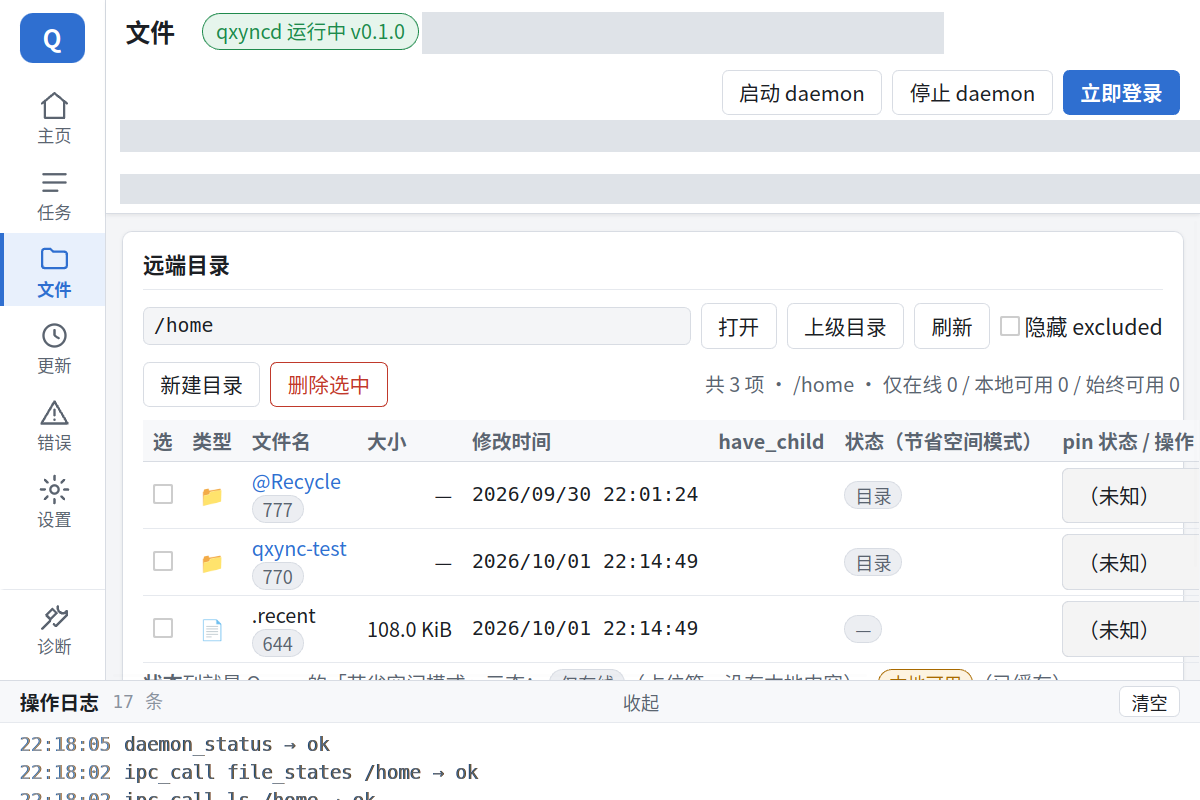
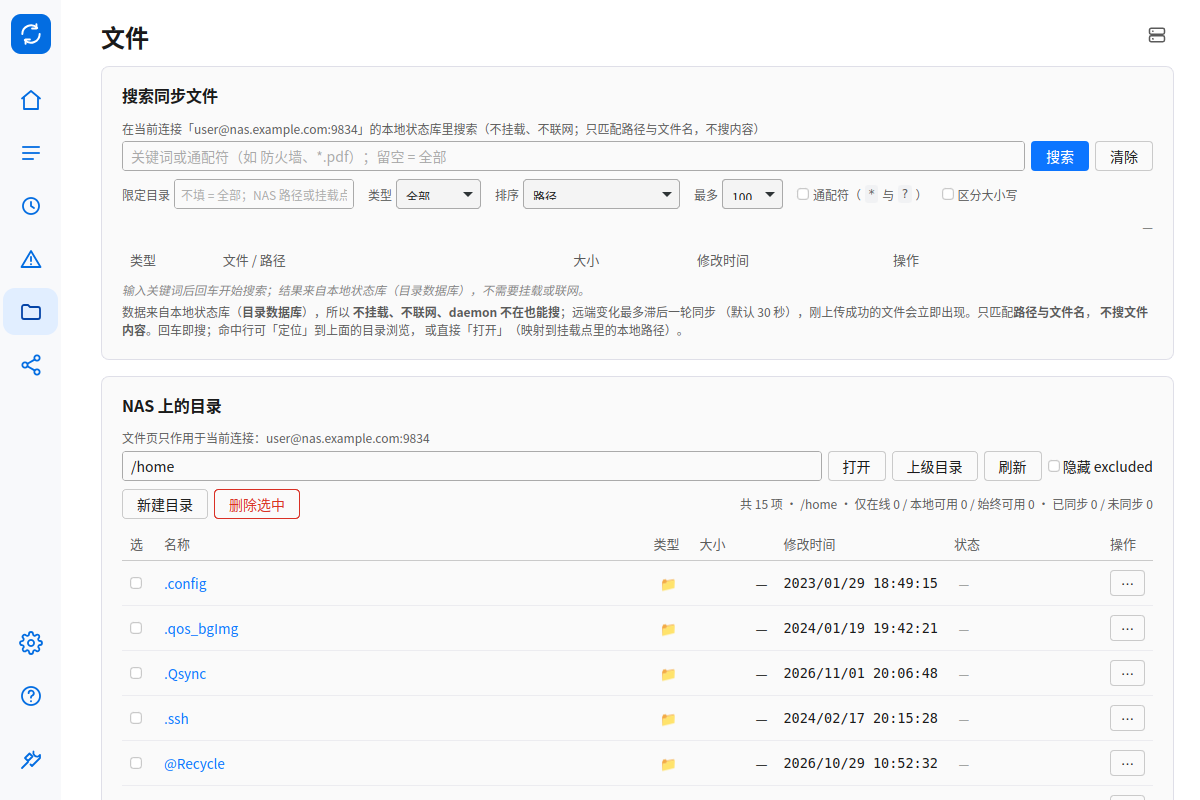
release: v0.9.1 —— 截图与历史脱敏修复（安全版）
- 全部入库截图 OCR 脱敏；发布说明嵌图加 ?v=2 破 camo 缓存
- 文档/测试夹具真实主机名→nas.example.com、用户名→user、家目录→/home/user
- README 四张截图用占位配置重拍（不再靠涂抹），本机路径模糊
- 版本 0.9.0→0.9.1 六处对齐 + Cargo.lock；新增发布说明 v0.9.1；中英 CHANGELOG
- 无功能变更、无数据格式变更

验证：全历史 grep 0 命中、OCR 闸门 0 命中、cargo fmt/check 通过、check-version 一致

diff --git a/xtask/release/redact-shots.py b/xtask/release/redact-shots.py
@@ -22,7 +22,7 @@ import sys
 from pathlib import Path
 
 try:
-    from PIL import Image, ImageDraw
+    from PIL import Image, ImageDraw, ImageFilter
 except ImportError:  # pragma: no cover
     sys.exit("缺少 Pillow：sudo pacman -S python-pillow / apt install python3-pil")
 
@@ -49,7 +49,8 @@ def ocr_hits(path: Path, pattern: re.Pattern[str]) -> list[tuple[int, int, int, 
     return hits
 
 
-def mask_lines(img: Image.Image, hits: list[tuple[int, int, int, int, str]]) -> int:
+def mask_lines(img: Image.Image, hits: list[tuple[int, int, int, int, str]],
+               blur: bool = False, pad: int = 28) -> int:
     """按 y 中线聚行，整行段涂掉；返回涂改的行数。"""
     draw = ImageDraw.Draw(img)
     hits = sorted(hits, key=lambda w: (w[1] + w[3] / 2, w[0]))
@@ -68,8 +69,12 @@ def mask_lines(img: Image.Image, hits: list[tuple[int, int, int, int, str]]) -> 
         xe = [w[0] + w[2] for w in ln["items"]]
         ys = [w[1] for w in ln["items"]]
         ye = [w[1] + w[3] for w in ln["items"]]
-        x1, x2 = max(0, min(xs) - 28), min(img.width, max(xe) + 28)
+        x1, x2 = max(0, min(xs) - pad), min(img.width, max(xe) + pad)
         y1, y2 = max(0, min(ys) - 4), min(img.height, max(ye) + 4)
+        if blur:
+            box = (x1, y1, max(x1 + 1, x2), max(y1 + 1, y2))
+            img.paste(img.crop(box).filter(ImageFilter.GaussianBlur(6)), box)
+            continue
         fill = (255, 255, 255)
         for sx in (x1 - 10, x2 + 10, (x1 + x2) // 2):
             if 0 <= sx < img.width:
@@ -87,6 +92,9 @@ def main() -> int:
     ap.add_argument("--pattern", action="append", required=True,
                     help="敏感子串（可多次）；请勿把真实值提交进仓库")
     ap.add_argument("--dry-run", action="store_true", help="只报告命中，不改图")
+    ap.add_argument("--blur", action="store_true",
+                    help="命中区域用高斯模糊代替纯色块（截图里更自然，不会留深色印子）")
+    ap.add_argument("--pad", type=int, default=28, help="命中框左右外扩像素（默认 28）")
     args = ap.parse_args()
     pat = re.compile("|".join(re.escape(p) for p in args.pattern if p), re.IGNORECASE)
     dirty = 0
@@ -102,7 +110,7 @@ def main() -> int:
             print(f"❌ {path}: {len(hits)} 处命中 —— {', '.join(h[4] for h in hits[:6])}")
             continue
         img = Image.open(path).convert("RGB")
-        n = mask_lines(img, hits)
+        n = mask_lines(img, hits, blur=args.blur, pad=args.pad)
         img.save(path)
         print(f"✅ 已涂改 {path}（{n} 行）")
     if args.dry_run and dirty:

diff --git a/docs/发布说明-v0.9.1.md b/docs/发布说明-v0.9.1.md
@@ -1,0 +1,77 @@
+# v0.9.1 —— 截图与历史脱敏修复（安全版）
+
+> 发布日期：2026-11-02
+> 上一版：[v0.9.0](发布说明-v0.9.0.md)（桌面界面全面贴合 Qsync Client 6）
+
+## 一句话
+
+```text
+这是一次安全修复版本，没有新功能：
+  → 发布页面/仓库截图里的真实 NAS 地址（用户名@DDNS域名:端口）与本机路径已全部脱敏
+  → README 四张截图按新界面重拍，地址换成占位值
+  → git 历史（自 v0.7.0 起的 13 个提交、19 个 tag）里的同一批字符串一并清洗
+```
+
+## 出了什么事
+
+v0.9.0 的发布说明直接嵌入了验收截图，顶栏连接行里的 `用户名@DDNS域名:端口` 和
+设置页里的家目录路径**原样可见**——任何人打开 Release 页、或浏览仓库里的
+`docs/` 都能看到。这是我的失误：早期发布清单里写过「截图已涂抹」，但之后每次发版
+都没有强制执行这一条，于是约定变成了摆设。
+
+**泄露的内容**：主机名（DDNS 域名）、用户名、家目录路径。
+**没有泄露**：口令、凭据文件、TOTP 密钥 —— 已核对 `credentials*.json` 始终在
+`.gitignore` 内，全部历史里不存在任何凭据文件。
+
+## 这次改了什么
+
+| 面 | 处理 |
+|---|---|
+| 入库截图（40 张） | OCR 定位敏感串后脱敏；发布说明里的 4 张嵌图加 `?v=2` 破除 camo 缓存 |
+| 文档 / 测试夹具 | 真实主机名 → `nas.example.com`，用户名 → `user`，家目录 → `/home/user` |
+| README 四张截图 | 用**占位配置**重拍（`user@nas.example.com`），不再靠涂抹；本机路径做模糊 |
+| git 历史 | 13 个提交、19 个 tag 全量重写；文本与**截图像素**都处理（只替换文本等于只挡一半，`git log` 翻到旧提交照样看得见） |
+| 发版闸门 | 新增 `xtask/release/redact-shots.py`（`--dry-run` 命中即退出码 1）与 `scrub-history.sh`（默认只演练），发布清单补 §3.0 |
+
+## 你需要知道的
+
+1. **历史被重写了**：所有提交 hash 都变了，`v0.7.0`–`v0.9.0` 共 19 个 tag 已强制更新。
+   如果你本地有克隆，请重新 `git fetch --all --force`（或直接重新 clone），
+   不要把旧 clone 上的提交推回来。
+2. **旧对象仍可能残留**：force-push 不会删除 GitHub 服务器上的旧对象，
+   知道旧 SHA 的人仍可能直达。彻底清除需要联系 GitHub Support。
+3. **如果真的担心**：那个 DDNS 域名如果还在用，换一个最省事——历史里那个旧域名
+   （即使被翻到）就指向不到你了。
+
+## 验证
+
+```text
+git grep（全历史，敏感串）        → 0 命中
+OCR 闸门（全部入库 PNG）          → 0 命中
+README 四张截图                   → 重拍 + 人工核对
+cargo check --workspace           → 通过
+check-version.py v0.9.1           → 六处一致
+```
+
+历史清洗的备份留在本地：`git bundle` 形式的 `pre-scrub.bundle`（不入库）。
+
+## 升级
+
+```bash
+# Arch
+sudo pacman -U qxync-bin-0.9.1-1-x86_64.pkg.tar.zst
+# Debian / Ubuntu
+sudo apt install ./qxync_0.9.1-1_amd64.deb
+```
+
+无数据格式变更、无配置变更，纯脱敏 + 文档；`0.9.0 → 0.9.1` 直接覆盖安装即可。
+
+## 界面截图（已脱敏）
+
+| 主页 | 文件 |
+|---|---|
+| ![主页](https://raw.githubusercontent.com/mlzxgzy/qxync/v0.9.1/docs/images/gui-home.png) | ![文件](https://raw.githubusercontent.com/mlzxgzy/qxync/v0.9.1/docs/images/gui-files.png) |
+
+| 文件更新中心 | 设置 · 代理 |
+|---|---|
+| ![更新](https://raw.githubusercontent.com/mlzxgzy/qxync/v0.9.1/docs/images/gui-journal.png) | ![代理](https://raw.githubusercontent.com/mlzxgzy/qxync/v0.9.1/docs/images/gui-settings-proxy.png) |

diff --git a/CHANGELOG.en.md b/CHANGELOG.en.md
@@ -7,6 +7,45 @@ and this project adheres to [Semantic Versioning](https://semver.org/spec/v2.0.0
 
 ## [Unreleased]
 
+## [0.9.1] - 2026-11-02
+
+### Fixed
+
+- **Real NAS address leaked through screenshots in the release page and repo**:
+  the v0.9.0 release notes embedded acceptance screenshots directly, and the
+  connection line at the top bar (`user@ddns-host:port`) plus local home paths
+  were plainly visible to anyone opening the Release page or browsing the repo.
+  This was a maintainer mistake, not a config error — the "screenshots are
+  redacted" line existed in the early release checklist but nothing enforced it
+  on later releases. Now:
+  (1) all 40 tracked screenshots are redacted by OCR-locating the sensitive
+  strings (`xtask/release/redact-shots.py`; patterns come from the command line
+  only and never land in the repo; `--dry-run` exits 1 on a hit, so it can gate
+  a release);
+  (2) real host names / user names / home paths in docs and test fixtures are
+  replaced with placeholders (`nas.example.com` / `user` / `/home/user`);
+  (3) embedded images in the release notes get `?v=2` to defeat GitHub's camo
+  cache, and screenshots are now taken with a placeholder config
+  (`user@nas.example.com`, local paths blurred) instead of painting over a real
+  one — the four README screenshots are re-shot against the current UI;
+  (4) **git history is scrubbed too** (`xtask/release/scrub-history.sh` +
+  `scrub-images.py`): 13 commits and 19 tags since v0.7.0 carried the real host
+  name, and text replacement alone is not enough — image pixels must be handled
+  as well, otherwise `git log` on an old commit still shows it. After the
+  rewrite the whole history has zero hits.
+  Verified: `git grep` over all history → 0 hits; OCR gate over every tracked
+  PNG → 0 hits; four README screenshots re-shot and checked by eye;
+  `cargo check --workspace` passes; `check-version.py v0.9.1` agrees.
+
+### Security note
+
+- What leaked: **host name, user name, home directory path**. No passwords,
+  credential files or TOTP secrets (verified: `credentials*.json` has always
+  been in `.gitignore`; no credential file appears anywhere in history).
+- Old commits may still be reachable on GitHub by raw SHA (force-push does not
+  delete server-side objects); a full purge needs GitHub Support. If that DDNS
+  host name is still in use, consider rotating it or removing public exposure.
+
 ## [0.9.0] - 2026-11-01
 
 ### Added

diff --git a/CHANGELOG.md b/CHANGELOG.md
@@ -7,6 +7,33 @@
 
 ## [未发布]
 
+## [0.9.1] - 2026-11-02
+
+### 修复
+
+- **发布页面与仓库截图里的真实 NAS 地址泄露**：v0.9.0 的发布说明直接嵌入了验收截图，
+  顶栏连接行里的 `用户名@DDNS域名:端口`、家目录路径原样可见，任何人打开 Release 页
+  或浏览仓库都能看到。这是维护失误，不是配置错误 —— 截图脱敏只在早期发布清单里
+  写过一句"已涂抹"，之后每次发版都没有强制执行。现在：
+  ① 全部 40 张入库截图的文本层用 OCR 定位敏感串并脱敏（`xtask/release/redact-shots.py`，
+  敏感串只走命令行、不落仓库，`--dry-run` 命中即退出码 1，可当发版闸门）；
+  ② 文档与测试夹具里的真实主机名/用户名/家目录统一替换为占位值
+  （`nas.example.com` / `user` / `/home/user`）；
+  ③ 发布说明里的嵌图引用加 `?v=2` 破除 GitHub camo 缓存，并把截图基准从"涂抹"改为
+  "用占位配置截图"（`user@nas.example.com`，本机路径模糊）——README 四张图按新界面重拍；
+  ④ **历史提交一并清洗**（`xtask/release/scrub-history.sh` + `scrub-images.py`）：
+  自 v0.7.0 起的 13 个提交、19 个 tag 的树里都带着真实主机名，文本替换之外还要
+  连截图像素一起处理（否则 `git log` 翻到旧提交照样看得见）。清洗后全历史命中为 0。
+  验收：`git grep` 全历史 0 命中；OCR 闸门对全部入库 PNG 0 命中；README 四张截图重拍
+  并人工核对；`cargo check --workspace` 通过；`check-version.py v0.9.1` 一致。
+
+### 安全提示
+
+- 本次泄露的内容是**主机名、用户名、家目录路径**，不含口令、凭据文件、TOTP 密钥
+  （已核对：`credentials*.json` 始终在 `.gitignore` 内，历史中无任何凭据文件）。
+- 旧提交在 GitHub 上仍可能通过 SHA 直达（force-push 不会删除服务器端旧对象），
+  彻底清除需联系 GitHub Support；若该 DDNS 域名仍在用，建议换一个或收回公网暴露。
+
 ## [0.9.0] - 2026-11-01
 
 ### 新增

diff --git a/README.en.md b/README.en.md
@@ -62,7 +62,7 @@ and `qxync-gui` (desktop GUI).
 
 ## Screenshots
 
-> The screenshots below show a **redacted** UI (real NAS addresses and local paths have been painted over).
+> In the screenshots below the NAS address and account are placeholders (`user@nas.example.com`); local paths are blurred.
 
 | Home | Files |
 |---|---|
